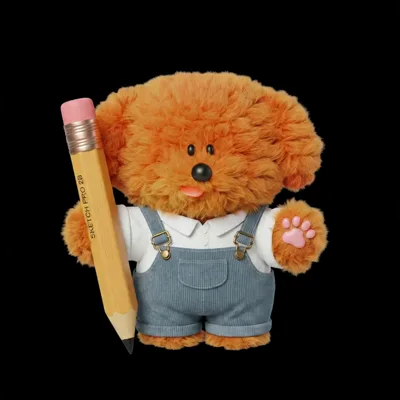
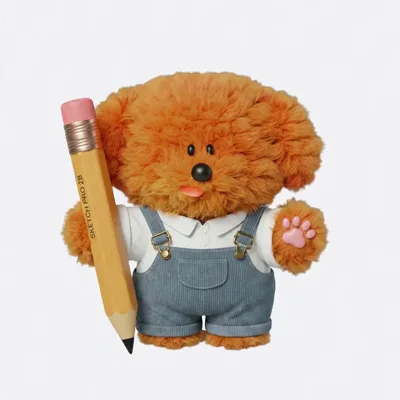
feat: mix/edit 메인 영상을 magnific_l7fmTNJgv9로 교체

diff --git a/app/components/mix/MixEditHeroVideo.tsx b/app/components/mix/MixEditHeroVideo.tsx
@@ -2,8 +2,8 @@
 
 import { useEffect, useRef } from "react";
 
-const VIDEO_SRC = "/assets/mix/mix-edit-hero.mp4?v=3";
-const POSTER_SRC = "/assets/mix/mix-edit-hero-poster.webp?v=3";
+const VIDEO_SRC = "/assets/mix/mix-edit-hero.mp4?v=4";
+const POSTER_SRC = "/assets/mix/mix-edit-hero-poster.webp?v=4";
 
 export default function MixEditHeroVideo() {
   const videoRef = useRef<HTMLVideoElement>(null);